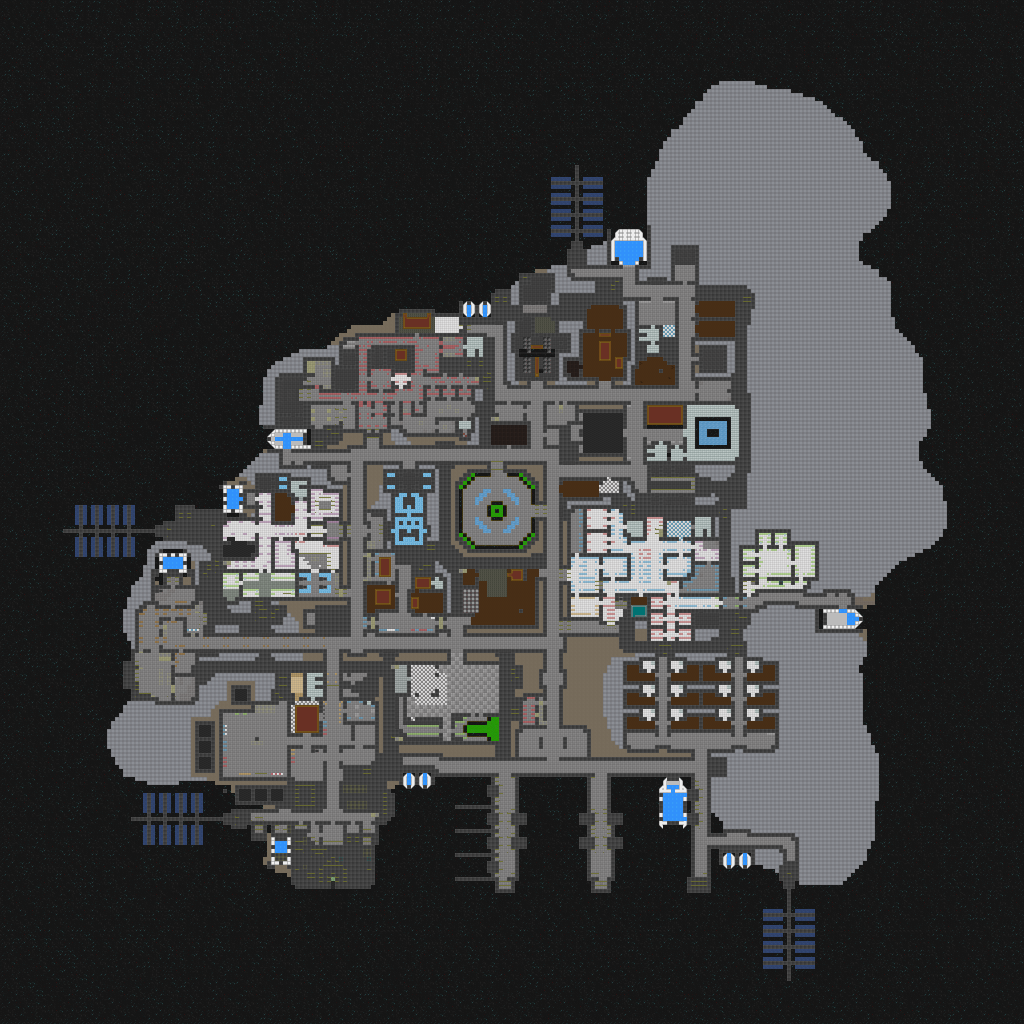
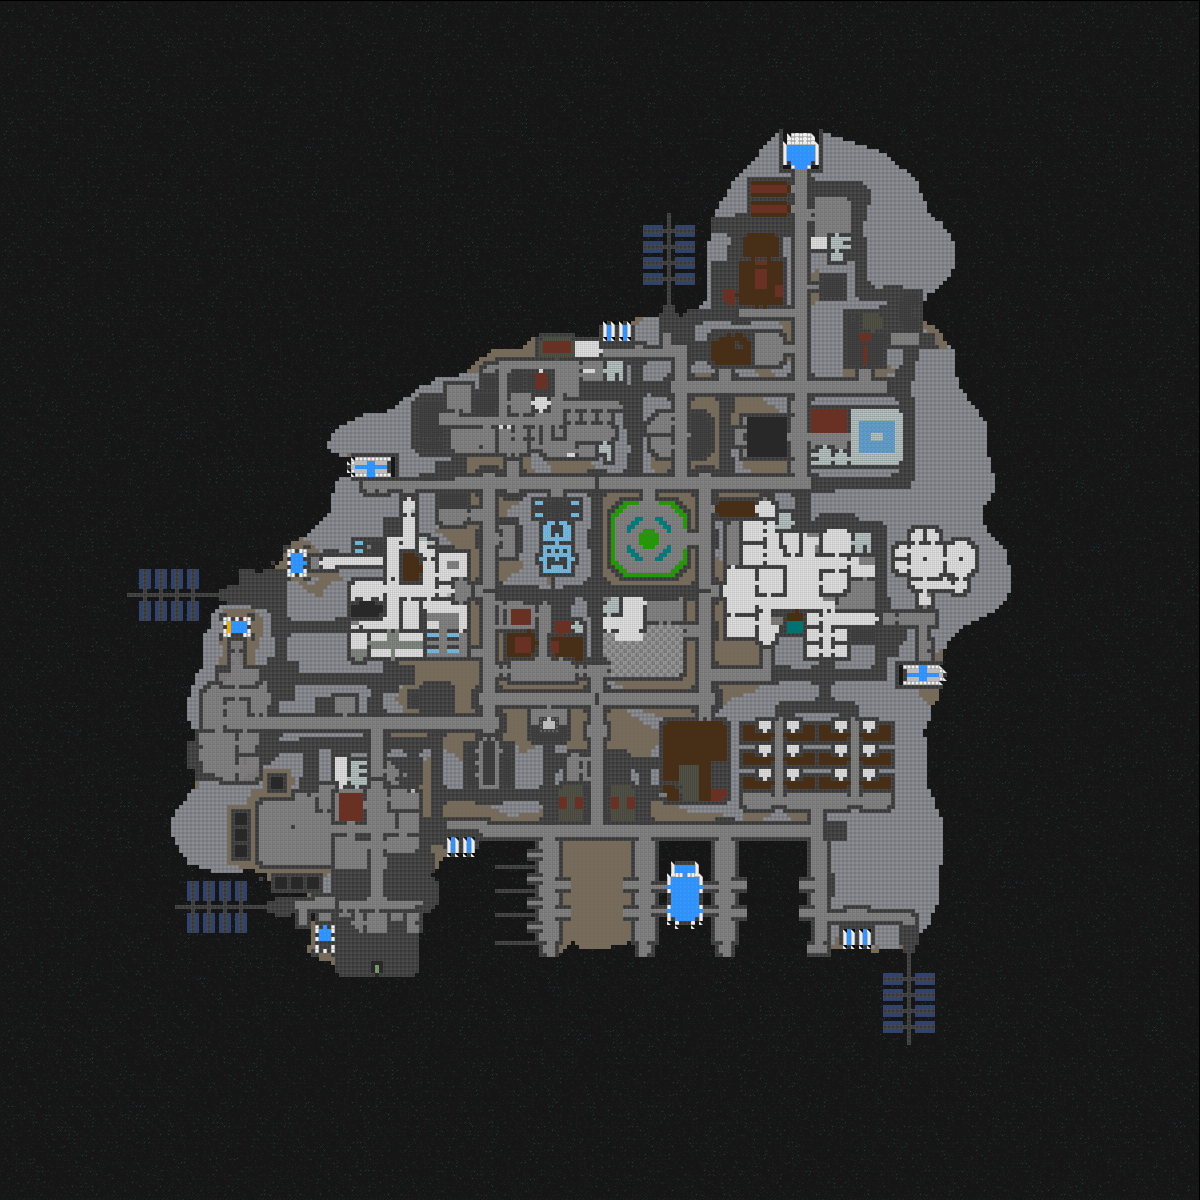
Fixes the map for NanoUI. It's now 1200x1200px not 1024x1024px due to our dimensions.
Necessary changes to nanomapgen.dm and various image files to generate new nanoui maps have not been committed. These changes were required because our station's map is 300x300 tiles, not 255x255 tiles like the Exodus.

Changes were needed to layout_default.css to ensure the map shows properly in the UI at 300x300.
This should work fine for now, but other changes can be pushed through to bring the tools in line with our map's size if necessary.

diff --git a/nano/css/layout_default.css b/nano/css/layout_default.css
@@ -71,8 +71,8 @@ body {
     top: 50%;
     left: 50%;
     margin: -512px 0 0 -512px;
-    width: 256px;
-    height: 256px;
+    width: 300px;
+    height: 300px;
     overflow: hidden;
     zoom: 4;
 }
@@ -81,16 +81,16 @@ body {
     position: absolute;
     bottom: 1px;
     left: 1px;
-    width: 256px;
-    height: 256px;
+    width: 300px;
+    height: 300px;
 }
 
 #uiMapContent {
     position: absolute;
     bottom: 0px;
     left: 0px;
-    width: 256px;
-    height: 256px;
+    width: 300px;
+    height: 300px;
 }
 
 #uiMapFooter {
